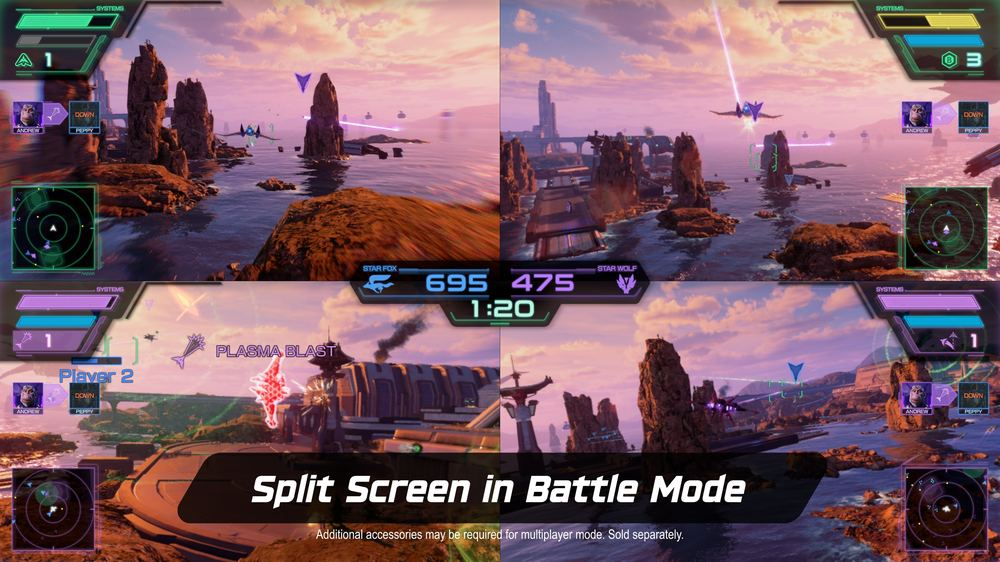
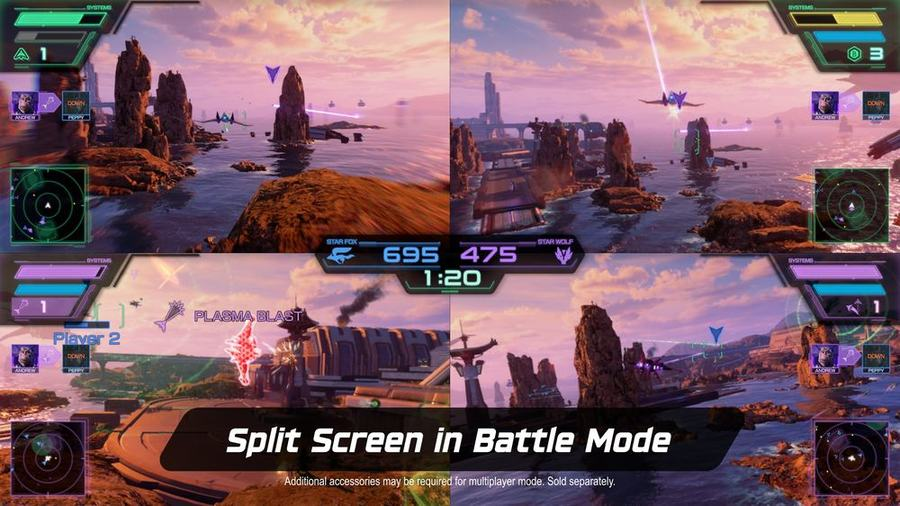
Recompress card art to 900px wide (595K -> 465K total)

diff --git a/index.html b/index.html
@@ -194,7 +194,7 @@
 
   <div class="cards">
     <div class="card">
-      <figure><img src="images/pokopia.jpg" width="1000" height="568" fetchpriority="high" alt="Pokémon Pokopia" decoding="async"></figure>
+      <figure><img src="images/pokopia.jpg" width="900" height="511" fetchpriority="high" alt="Pokémon Pokopia" decoding="async"></figure>
       <div class="card-body">
         <span class="tier-tag tier-A">Tier A · Pokopia</span>
         <h3><span class="rank">1</span><span class="headline">Pokopia patched to 2.0.1 — the freezes and stuck-loading-screen bugs are dead</span></h3>
@@ -204,7 +204,7 @@
     </div>
 
     <div class="card">
-      <figure><img src="images/ffvii.jpg" width="1000" height="563" alt="Final Fantasy VII Revelation" decoding="async"></figure>
+      <figure><img src="images/ffvii.jpg" width="900" height="507" alt="Final Fantasy VII Revelation" decoding="async"></figure>
       <div class="card-body">
         <span class="tier-tag tier-A">Tier A · FF7</span>
         <h3><span class="rank">2</span><span class="headline">Revelation's job system is called "FITS," not Jobs — and no, you don't get the Wall Market dress as a skin</span></h3>
@@ -214,7 +214,7 @@
     </div>
 
     <div class="card">
-      <figure><img src="images/zelda2d.jpg" width="1000" height="590" alt="2D Zelda" decoding="async"></figure>
+      <figure><img src="images/zelda2d.jpg" width="900" height="531" alt="2D Zelda" decoding="async"></figure>
       <div class="card-body">
         <span class="tier-tag tier-A">Tier A · Zelda (rumor)</span>
         <h3><span class="rank">3</span><span class="headline">Rumor: a new 2D Zelda is in the pipe for 2027, and Ganondorf might be the playable lead</span></h3>
@@ -224,7 +224,7 @@
     </div>
 
     <div class="card">
-      <figure><img src="images/starfox.jpg" width="1000" height="562" alt="Star Fox" decoding="async"></figure>
+      <figure><img src="images/starfox.jpg" width="900" height="506" alt="Star Fox" decoding="async"></figure>
       <div class="card-body">
         <span class="tier-tag tier-B">Tier B · Star Fox</span>
         <h3><span class="rank">4</span><span class="headline">Star Fox's free update lands Sept 29 — 4-player split-screen Battle Mode, plus Star Fox Adventures is already on GameCube Classics</span></h3>
@@ -234,7 +234,7 @@
     </div>
 
     <div class="card">
-      <figure><img src="images/codzombies.jpg" width="1000" height="562" alt="Call of Duty Black Ops 7 Zombies" decoding="async"></figure>
+      <figure><img src="images/codzombies.jpg" width="900" height="506" alt="Call of Duty Black Ops 7 Zombies" decoding="async"></figure>
       <div class="card-body">
         <span class="tier-tag tier-B">Tier B · Xbox/CoD</span>
         <h3><span class="rank">5</span><span class="headline">Black Ops 7 Zombies' final season drops Sept 17 — Doom crossover, a Super Easter Egg, and Pack-a-Punch IV</span></h3>
@@ -244,7 +244,7 @@
     </div>
 
     <div class="card">
-      <figure><img src="images/gta6.jpg" width="1000" height="562" alt="GTA 6" decoding="async"></figure>
+      <figure><img src="images/gta6.jpg" width="900" height="506" alt="GTA 6" decoding="async"></figure>
       <div class="card-body">
         <span class="tier-tag tier-B">Tier B · GTA 6 (horizon)</span>
         <h3><span class="rank">6</span><span class="headline">First GTA 6 cast confirmation, straight from the actor: Stephen Root is playing Brian Heder</span></h3>
@@ -254,7 +254,7 @@
     </div>
 
     <div class="card">
-      <figure><img src="images/crash.jpg" width="1000" height="562" alt="Crash Bandicoot" decoding="async"></figure>
+      <figure><img src="images/crash.jpg" width="900" height="506" alt="Crash Bandicoot" decoding="async"></figure>
       <div class="card-body">
         <span class="tier-tag tier-C">Wildcard</span>
         <h3><span class="rank">7</span><span class="headline">Crash Bandicoot's 30th anniversary teasing "something all month" — still no confirmed new game</span></h3>
@@ -264,7 +264,7 @@
     </div>
 
     <div class="card">
-      <figure><img src="images/anbernic.jpg" width="1000" height="563" alt="Anbernic RG DS Plus" decoding="async"></figure>
+      <figure><img src="images/anbernic.jpg" width="900" height="507" alt="Anbernic RG DS Plus" decoding="async"></figure>
       <div class="card-body">
         <span class="tier-tag tier-C">Wildcard · Handheld</span>
         <h3><span class="rank">8</span><span class="headline">Anbernic's RG DS Plus launches Sept 15 — dual 4.3" screens, built-in stylus, $84.99 for the first 72 hours</span></h3>
